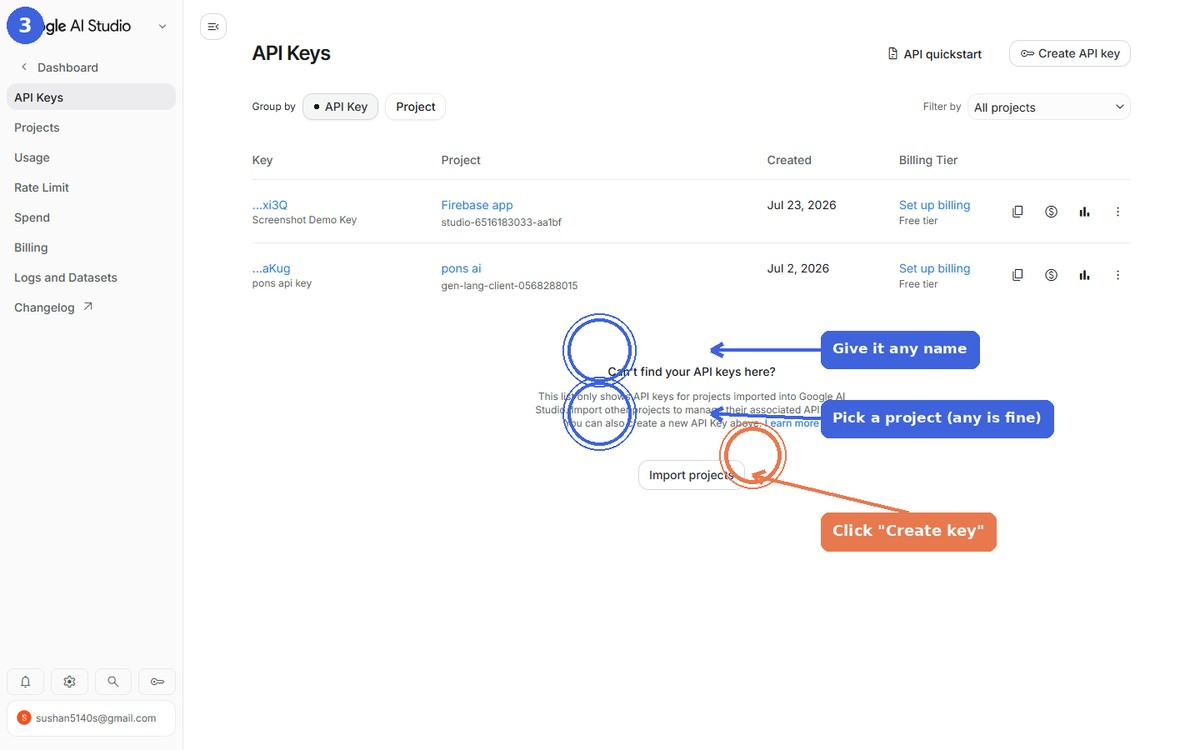
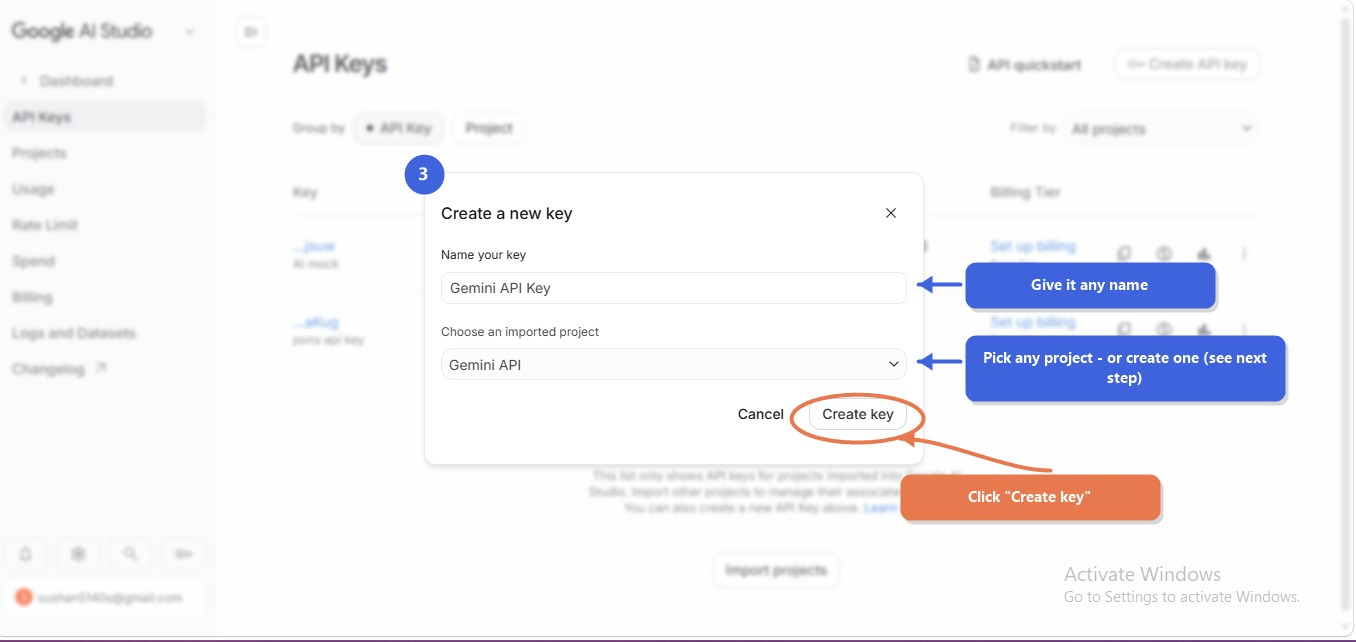
Fix mock interview: dead Gemini model, broken step-3 guide screenshot
Google cut off new users from gemini-2.5-flash (404 on every key
validation and feedback call) -- switched to gemini-3.6-flash, the
current model per Google's own docs.

The step-3 guide screenshot had annotations pointing at the wrong part
of the page (a leftover from an earlier bad capture). Replaced it with
a correctly annotated screenshot of the actual "Create a new key"
dialog, and added two new steps covering the "no projects yet" branch
(open the project dropdown -> "Create project" -> name it), since nothing
previously showed that path. Guide images now carry their own width/height
instead of a hardcoded 1200x750, fixing a pre-existing distortion on step 6
along the way, and load eagerly since the guide is expanded by default
(they were never actually below the fold).

diff --git a/lib/mock-interview/api-key-guide.ts b/lib/mock-interview/api-key-guide.ts
@@ -8,6 +8,12 @@ export interface ApiKeyGuideStep {
   title: string;
   caption: string;
   screenshotSrc: string;
+  // Real pixel dimensions of the screenshot -- passed straight to next/image
+  // so its aspect-ratio CSS matches the actual file instead of assuming a
+  // uniform 1200x750 (step 6, and now steps 3/3a/3b, aren't that ratio; a
+  // hardcoded width/height here would stretch or squish them).
+  width: number;
+  height: number;
 }
 
 export const API_KEY_GUIDE_STEPS: ApiKeyGuideStep[] = [
@@ -16,35 +22,63 @@ export const API_KEY_GUIDE_STEPS: ApiKeyGuideStep[] = [
     title: "Go to Google AI Studio and click the key icon",
     caption: "Open aistudio.google.com and sign in with any Google account. In the bottom-left toolbar, click the key-shaped icon.",
     screenshotSrc: "/mock-interview/api-key-guide-step-1.jpg",
+    width: 1200,
+    height: 750,
   },
   {
     num: 2,
     title: 'Click "Create API key"',
     caption: 'You\'ll land on the API Keys page. Click the "Create API key" button in the top-right.',
     screenshotSrc: "/mock-interview/api-key-guide-step-2.jpg",
+    width: 1200,
+    height: 750,
   },
   {
     num: 3,
-    title: 'Name your key and click "Create key"',
-    caption: 'Give it any name you like, pick any project from the dropdown (or the default one), then click "Create key".',
+    title: "Name your key and choose a project",
+    caption: 'Give it any name you like, then pick a project from the dropdown. Don\'t have a project yet? See the next step.',
     screenshotSrc: "/mock-interview/api-key-guide-step-3.jpg",
+    width: 1356,
+    height: 642,
   },
   {
     num: 4,
-    title: 'Click "Copy key"',
-    caption: 'Your key is generated. Click "Copy key" — this is the value you\'ll paste into the field below.',
-    screenshotSrc: "/mock-interview/api-key-guide-step-4.jpg",
+    title: 'No projects yet? Click "Create project"',
+    caption: 'Open the project dropdown and click "Create project" at the top of the list. Already have a project? Skip to the next step.',
+    screenshotSrc: "/mock-interview/api-key-guide-step-3a.jpg",
+    width: 485,
+    height: 620,
   },
   {
     num: 5,
-    title: "Done — your key is ready to use",
-    caption: "Your new key now appears in the list. Paste it into the field below and continue.",
-    screenshotSrc: "/mock-interview/api-key-guide-step-5.jpg",
+    title: "Name your project and create it",
+    caption: 'Give it any name, click "Create project", then go back and pick it from the dropdown in step 3.',
+    screenshotSrc: "/mock-interview/api-key-guide-step-3b.jpg",
+    width: 554,
+    height: 425,
   },
   {
     num: 6,
+    title: 'Click "Copy key"',
+    caption: 'Your key is generated. Click "Copy key" — this is the value you\'ll paste into the field below.',
+    screenshotSrc: "/mock-interview/api-key-guide-step-4.jpg",
+    width: 1200,
+    height: 750,
+  },
+  {
+    num: 7,
+    title: "Done — your key is ready to use",
+    caption: "Your new key now appears in the list. Paste it into the field below and continue.",
+    screenshotSrc: "/mock-interview/api-key-guide-step-5.jpg",
+    width: 1200,
+    height: 750,
+  },
+  {
+    num: 8,
     title: "Copy the key and paste it below",
     caption: 'Back on this page, paste the copied key into the field further down, then click "Validate & continue".',
     screenshotSrc: "/mock-interview/api-key-guide-step-6.jpg",
+    width: 1200,
+    height: 420,
   },
 ];

diff --git a/lib/mock-interview/constants.ts b/lib/mock-interview/constants.ts
@@ -14,9 +14,14 @@ export const MOCK_INTERVIEW_CATEGORY_LABELS: Record<MockInterviewCategory, strin
   curveball: "Curveball",
 };
 
-// Single source of truth for the model name -- see the port plan for why
-// this is gemini-2.5-flash specifically and not 2.0-flash/flash-lite/pro/3.x.
-export const GEMINI_MODEL = "gemini-2.5-flash";
+// Single source of truth for the model name. Was gemini-2.5-flash (the
+// prototype's original choice) until Google cut off new users from it --
+// generateContent started returning 404 "no longer available to new users"
+// for any key created after the cutoff. gemini-2.0-flash/2.0-flash-lite and
+// all 1.0/1.5 models are fully shut down (404 for everyone), so this isn't a
+// one-off, it's Google routinely retiring older Gemini versions -- expect to
+// revisit this constant again later.
+export const GEMINI_MODEL = "gemini-3.6-flash";
 
 // Grab a candidate frame every ~4s during the tracking loop.
 export const FRAME_SAMPLE_INTERVAL_MS = 4000;

diff --git a/components/mock-interview/api-key-stage.tsx b/components/mock-interview/api-key-stage.tsx
@@ -94,10 +94,11 @@ export function ApiKeyStage({ onValidated }: { onValidated: (key: string) => voi
                 <Image
                   src={step.screenshotSrc}
                   alt={step.title}
-                  width={1200}
-                  height={750}
+                  width={step.width}
+                  height={step.height}
                   className="mt-2.5 w-full rounded-lg border border-hairline"
                   unoptimized
+                  loading="eager"
                 />
               </div>
             </div>

diff --git a/supabase/scripts/regression/mock-interview-stage3.ts b/supabase/scripts/regression/mock-interview-stage3.ts
@@ -82,7 +82,7 @@ async function main() {
         })
       );
     });
-    check("All 6 guide screenshots present", imgResults.length === 6);
+    check("All 8 guide screenshots present", imgResults.length === 8);
     check("All guide screenshots actually loaded (no 404s)", imgResults.every((r) => r.ok));
     if (!imgResults.every((r) => r.ok)) console.log("    broken images:", imgResults.filter((r) => !r.ok));
 
